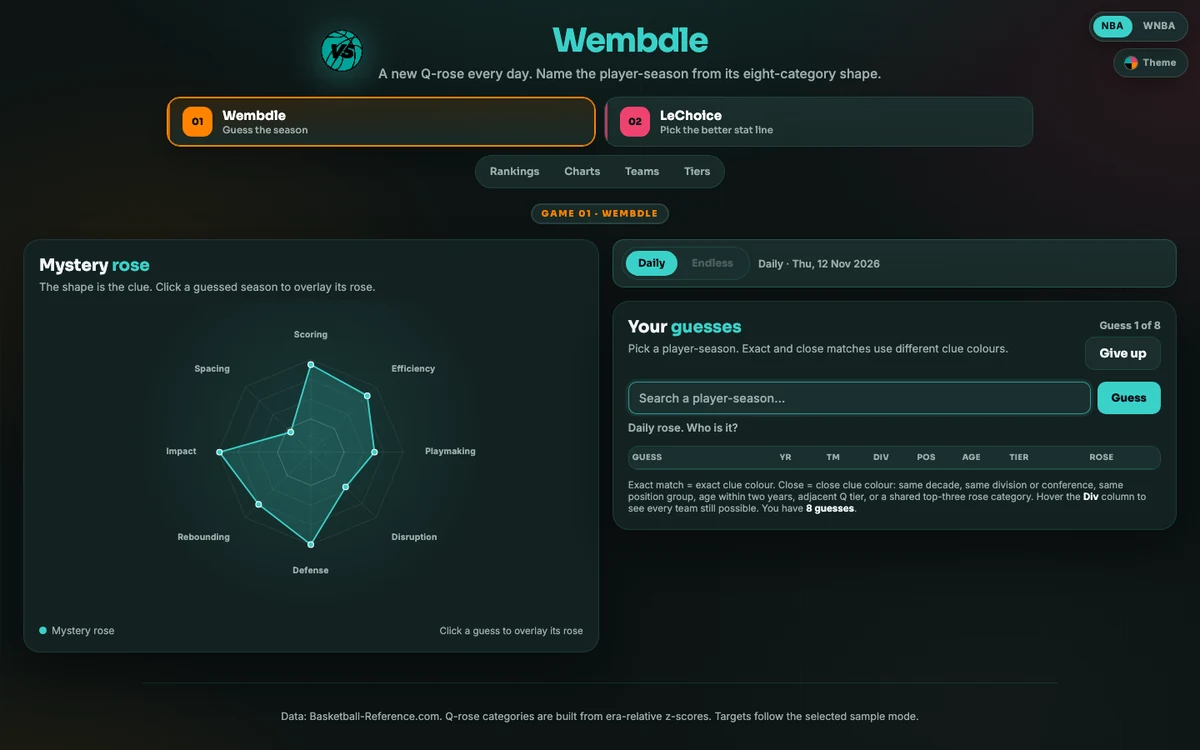
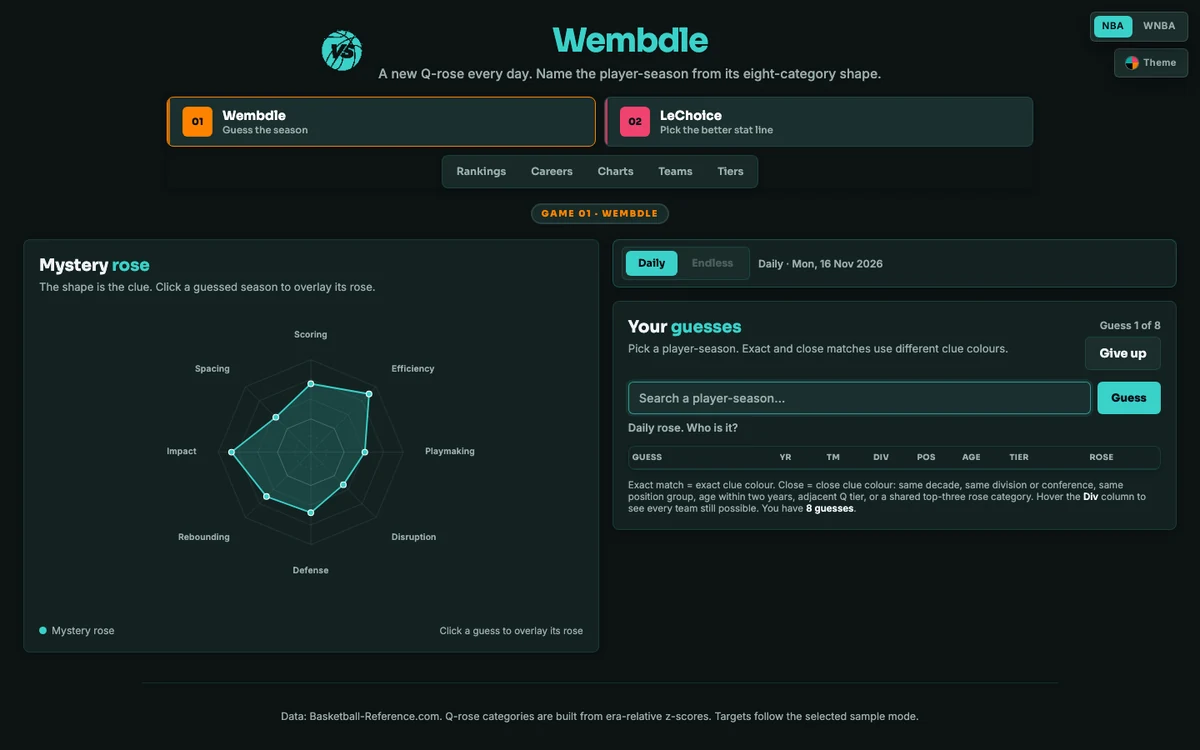
Refresh Wembdle preview and flatten visual effects

diff --git a/index.html b/index.html
@@ -72,32 +72,6 @@
     overflow-x: hidden;
   }
 
-  body::before {
-    content: "";
-    position: fixed;
-    inset: 0;
-    z-index: -2;
-    background:
-      radial-gradient(60% 42% at 10% -8%, rgba(139, 92, 246, 0.20), transparent 65%),
-      radial-gradient(48% 38% at 92% 4%, rgba(34, 211, 238, 0.10), transparent 65%),
-      radial-gradient(45% 32% at 50% 106%, rgba(139, 92, 246, 0.08), transparent 70%);
-    pointer-events: none;
-  }
-
-  body::after {
-    content: "";
-    position: fixed;
-    inset: 0;
-    z-index: -1;
-    background-image:
-      linear-gradient(rgba(255, 255, 255, 0.026) 1px, transparent 1px),
-      linear-gradient(90deg, rgba(255, 255, 255, 0.026) 1px, transparent 1px);
-    background-size: 72px 72px;
-    -webkit-mask-image: radial-gradient(80% 55% at 50% 0%, #000 15%, transparent 100%);
-    mask-image: radial-gradient(80% 55% at 50% 0%, #000 15%, transparent 100%);
-    pointer-events: none;
-  }
-
   ::selection { background: rgba(167, 139, 250, 0.35); color: #fff; }
 
   a { color: inherit; text-decoration: none; }
@@ -124,13 +98,11 @@
     top: 0;
     z-index: 50;
     border-bottom: 1px solid transparent;
-    transition: background-color 0.3s ease, border-color 0.3s ease, backdrop-filter 0.3s ease;
+    transition: background-color 0.3s ease, border-color 0.3s ease;
   }
 
   .site-header.is-scrolled {
-    background: rgba(8, 8, 12, 0.72);
-    -webkit-backdrop-filter: blur(14px);
-    backdrop-filter: blur(14px);
+    background: rgba(8, 8, 12, 0.92);
     border-bottom-color: var(--line);
   }
 
@@ -158,17 +130,15 @@
     border-radius: 10px;
     display: grid;
     place-items: center;
-    background: linear-gradient(140deg, rgba(167, 139, 250, 0.22), rgba(34, 211, 238, 0.12));
-    border: 1px solid rgba(167, 139, 250, 0.35);
-    box-shadow: inset 0 1px 0 rgba(255, 255, 255, 0.14);
+    background: rgba(255, 255, 255, 0.05);
+    border: 1px solid var(--line-strong);
   }
 
   .brand-mark span {
     width: 9px;
     height: 9px;
     border-radius: 50%;
-    background: linear-gradient(140deg, var(--violet), var(--cyan));
-    box-shadow: 0 0 14px rgba(167, 139, 250, 0.8);
+    background: var(--violet);
   }
 
   .nav-links { display: flex; align-items: center; gap: 6px; }
@@ -231,10 +201,7 @@
   .hero h1 .name {
     display: block;
     font-size: clamp(3.1rem, 7vw, 5.2rem);
-    background: linear-gradient(100deg, #ffffff 0%, #e5dbff 42%, #a5f3fc 100%);
-    -webkit-background-clip: text;
-    background-clip: text;
-    color: transparent;
+    color: var(--text);
   }
 
   .hero .intro {
@@ -263,7 +230,7 @@
     font-size: 0.88rem;
     font-weight: 600;
     border: 1px solid transparent;
-    transition: transform 0.2s ease, background-color 0.2s ease, border-color 0.2s ease, box-shadow 0.2s ease;
+    transition: transform 0.2s ease, background-color 0.2s ease, border-color 0.2s ease;
   }
 
   .btn:hover { transform: translateY(-2px); }
@@ -275,16 +242,15 @@
   }
 
   .copy-email.is-copied {
-    background: linear-gradient(100deg, #86efac, #67e8f9);
+    background: #86efac;
   }
 
   .btn-primary {
     color: #0a0a0f;
-    background: linear-gradient(100deg, #c4b5fd, #a5f3fc);
-    box-shadow: 0 10px 30px -12px rgba(167, 139, 250, 0.8);
+    background: var(--text);
   }
 
-  .btn-primary:hover { box-shadow: 0 16px 36px -12px rgba(167, 139, 250, 0.95); }
+  .btn-primary:hover { background: #ffffff; }
 
   .btn-ghost {
     color: var(--text);
@@ -301,18 +267,6 @@
     min-width: 0;
   }
 
-  .hero-art::before {
-    content: "";
-    position: absolute;
-    inset: 10% 2%;
-    z-index: 0;
-    background:
-      radial-gradient(circle at 62% 38%, rgba(167, 139, 250, 0.30), transparent 58%),
-      radial-gradient(circle at 32% 72%, rgba(34, 211, 238, 0.16), transparent 58%);
-    filter: blur(46px);
-    pointer-events: none;
-  }
-
   .hero-shot {
     position: absolute;
     display: block;
@@ -321,8 +275,7 @@
     border: 1px solid rgba(255, 255, 255, 0.14);
     background: #0c0d13;
     overflow: hidden;
-    box-shadow: 0 34px 80px -36px rgba(0, 0, 0, 0.95), 0 0 0 1px rgba(255, 255, 255, 0.03);
-    transition: transform 0.5s cubic-bezier(0.22, 1, 0.36, 1), border-color 0.3s ease, box-shadow 0.3s ease;
+    transition: transform 0.5s cubic-bezier(0.22, 1, 0.36, 1), border-color 0.3s ease;
   }
 
   .hero-shot:focus-visible {
@@ -332,7 +285,6 @@
 
   .hero-shot:hover {
     border-color: rgba(255, 255, 255, 0.28);
-    box-shadow: 0 40px 90px -34px rgba(0, 0, 0, 0.95), 0 0 40px -12px rgba(167, 139, 250, 0.35);
   }
 
   .hero-shot img { width: 100%; height: auto; }
@@ -440,7 +392,6 @@
   .filter[aria-pressed="true"] {
     color: var(--text);
     background: rgba(255, 255, 255, 0.09);
-    box-shadow: inset 0 1px 0 rgba(255, 255, 255, 0.1);
   }
 
   .filter:focus-visible,
@@ -467,15 +418,14 @@
     flex-direction: column;
     border: 1px solid var(--line);
     border-radius: var(--radius);
-    background: linear-gradient(180deg, #12131b 0%, #0d0e14 100%);
+    background: #101118;
     overflow: hidden;
-    transition: transform 0.35s cubic-bezier(0.22, 1, 0.36, 1), border-color 0.3s ease, box-shadow 0.35s ease;
+    transition: transform 0.35s cubic-bezier(0.22, 1, 0.36, 1), border-color 0.3s ease;
   }
 
   .card:hover {
     transform: translateY(-5px);
     border-color: rgba(255, 255, 255, 0.18);
-    box-shadow: 0 26px 60px -30px rgba(0, 0, 0, 0.9), 0 0 0 1px rgba(167, 139, 250, 0.08);
   }
 
   .card::after {
@@ -500,16 +450,6 @@
     background: #0b0c12;
   }
 
-  .card-art::after {
-    content: "";
-    position: absolute;
-    inset: 0;
-    z-index: 1;
-    background: linear-gradient(180deg, rgba(8, 8, 12, 0.10) 0%, rgba(8, 8, 12, 0) 35%, rgba(8, 8, 12, 0.35) 100%);
-    box-shadow: inset 0 0 0 1px rgba(255, 255, 255, 0.04);
-    pointer-events: none;
-  }
-
   .card-shot {
     width: 100%;
     height: 100%;
@@ -531,9 +471,7 @@
     padding: 5px 10px;
     border-radius: 999px;
     border: 1px solid rgba(255, 255, 255, 0.16);
-    background: rgba(8, 8, 12, 0.62);
-    -webkit-backdrop-filter: blur(8px);
-    backdrop-filter: blur(8px);
+    background: rgba(8, 8, 12, 0.82);
     font-size: 0.64rem;
     font-weight: 600;
     letter-spacing: 0.07em;
@@ -547,12 +485,11 @@
     height: 5px;
     border-radius: 50%;
     background: #4ade80;
-    box-shadow: 0 0 8px rgba(74, 222, 128, 0.7);
   }
 
-  .badge.is-soon::before { background: #fbbf24; box-shadow: 0 0 8px rgba(251, 191, 36, 0.6); }
-  .badge.is-source::before { background: #a78bfa; box-shadow: 0 0 8px rgba(167, 139, 250, 0.6); }
-  .badge.is-archived::before { background: #94a3b8; box-shadow: none; }
+  .badge.is-soon::before { background: #fbbf24; }
+  .badge.is-source::before { background: #a78bfa; }
+  .badge.is-archived::before { background: #94a3b8; }
 
   .card-body {
     display: flex;
@@ -646,15 +583,14 @@
     flex-direction: column;
     border: 1px solid var(--line);
     border-radius: var(--radius);
-    background: linear-gradient(180deg, #12131b 0%, #0d0e14 100%);
+    background: #101118;
     overflow: hidden;
-    transition: transform 0.35s cubic-bezier(0.22, 1, 0.36, 1), border-color 0.3s ease, box-shadow 0.35s ease;
+    transition: transform 0.35s cubic-bezier(0.22, 1, 0.36, 1), border-color 0.3s ease;
   }
 
   .game-card:hover {
     transform: translateY(-5px);
     border-color: rgba(255, 255, 255, 0.18);
-    box-shadow: 0 26px 60px -30px rgba(0, 0, 0, 0.9);
   }
 
   .game-cover {
@@ -675,14 +611,6 @@
 
   .game-card:hover .game-cover img { transform: scale(1.04); }
 
-  .game-cover::after {
-    content: "";
-    position: absolute;
-    inset: 0;
-    box-shadow: inset 0 0 0 1px rgba(255, 255, 255, 0.05);
-    pointer-events: none;
-  }
-
   .game-year {
     position: absolute;
     top: 12px;
@@ -691,9 +619,7 @@
     padding: 5px 10px;
     border-radius: 999px;
     border: 1px solid rgba(255, 255, 255, 0.18);
-    background: rgba(8, 8, 12, 0.65);
-    -webkit-backdrop-filter: blur(8px);
-    backdrop-filter: blur(8px);
+    background: rgba(8, 8, 12, 0.82);
     font-family: ui-monospace, SFMono-Regular, Menlo, monospace;
     font-size: 0.6rem;
     font-weight: 600;
@@ -751,10 +677,7 @@
     border-radius: 28px;
     padding: clamp(36px, 6vw, 60px);
     overflow: hidden;
-    background:
-      radial-gradient(90% 130% at 0% 0%, rgba(139, 92, 246, 0.16), transparent 60%),
-      radial-gradient(80% 120% at 100% 100%, rgba(34, 211, 238, 0.10), transparent 60%),
-      linear-gradient(180deg, #101118, #0b0c11);
+    background: #101118;
   }
 
   .contact h2 {
